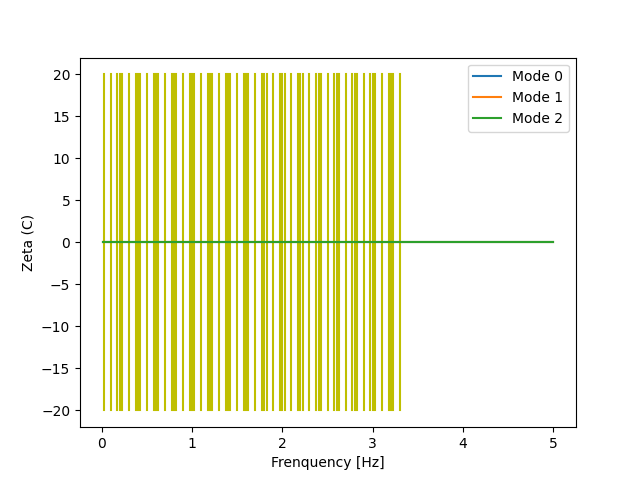
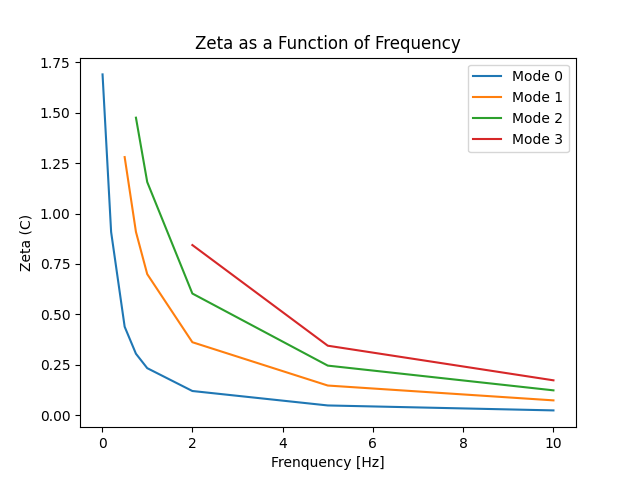
More graphs!!

diff --git a/examples/driver.py b/examples/driver.py
@@ -20,7 +20,7 @@ def main():
     
     
     #Set some frequencies
-    frequency = np.array([0.01, 0.25, 1, 2, 5, 10])
+    frequency = np.array([0.01, 0.2, 0.50, 0.75, 1, 2, 5, 10])
 
     #Zeta Max
     C_max = np.sqrt(H ** 2 * ((beta_1 ** -2) - (beta_2 ** -2)))
@@ -41,7 +41,7 @@ def main():
           
         return dfdx
     
-    modes = [0, 1, 2]
+    modes = [0, 1, 2, 3]
 
     # Creating empty array to store roots or zeta
     zeta = np.zeros([len(frequency), len(modes)])
@@ -91,7 +91,7 @@ def main():
             plt.plot(roots, function(roots), 'go')
 
             # Storing the values of the modes into the zeta, velocity and wavelength arrays
-            if k < 3:
+            if k < len(modes):
                 zeta[i, k] = roots
                 # Use functions given in the lab to find the values for the other arrays
                     # Equation 2
@@ -124,52 +124,88 @@ def main():
         plt.ylabel("Frequency(Zeta) [Hz]")
         plt.title(f"Frequency of {f} [Hz]")
         plt.savefig(f"figures/frequency_plots/Frequency_{f}.png")
-    # Root finding 
-    """
-    # Plot zeta vs frequency for each mode
+    
+    # Stop editing the last figure
+    plt.close("all")
+    
+
+
+# Plot zeta vs frequency for each mode
     plt.plot(frequency, zeta[:,0], label = 'Mode 0')
-    # Finding where indicies for frequency exists - mode 1
-    #mode1 = np.argwhere(zeta[:,1] > 0).flatten() 
-    #plt.plot(frequency[mode1[0]:], zeta[mode1[0]:,1], label = 'Mode 1')
-    plt.plot(frequency[1:], roots[1:,1], label = 'Mode 1')
-    #plt.plot(frequency, zeta[:,1], label = 'Mode 1')
-    # Finding where indicies for frequency exists - mode 2
-    #mode2 = np.argwhere(zeta[:,2] > 0).flatten() 
-    #lt.plot(frequency[mode2[0]:], zeta[mode2[0]:,2], label = 'Mode 2')
-    #plt.plot(frequency, zeta[:,2], label = 'Mode 2')
-    plt.plot(frequency[2:], roots[2,2], label = 'Mode 2')
+
+    # Finding frequencies for where roots exist - mode 1
+    mode1 = np.argwhere(zeta[:,1] > 0).flatten() 
+    plt.plot(frequency[mode1[0]:], zeta[mode1[0]:,1], label = 'Mode 1')
+
+    # Finding frequencies for where roots exist - mode 2
+    mode2 = np.argwhere(zeta[:,2] > 0).flatten() 
+    plt.plot(frequency[mode2[0]:], zeta[mode2[0]:,2], label = 'Mode 2')
+
+    # Finding frequencies for where roots exist - mode 3
+    mode3 = np.argwhere(zeta[:,3] > 0).flatten() 
+    plt.plot(frequency[mode3[0]:], zeta[mode3[0]:,3], label = 'Mode 3')
+
+    plt.title('Zeta as a Function of Frequency')
     plt.legend()
     plt.xlabel('Frenquency [Hz]')
     plt.ylabel('Zeta (C)')
     plt.savefig('figures/Zeta_vs_Frequency.png')
+    
+    # Stop editing this figure
     plt.close('all')
-    """
+    
 
-            
-    """
-    # Finding the initial guess
-    for i in range(len(frequency)):
-        # Finding the mode
-        k = 0  
-        while k < 3 and C_asy > C_max:  
-            C_asy = (0.25 / frequency[i]) * (2 * k + 1)
-            C_initial = C_asy - 1e-4
-            roots[i, k], iterations[i,k], error = root_secant_modified(C_initial, dx, f)
-            k += 1
+# Plot velocity vs frequency for each mode
+    plt.plot(frequency, velocity[:,0], label = 'Mode 0')
 
-    # Plotting the figures, frequencies vs modes
-    plt.figure(figsize = (10,10))
-        # mode 0
-    plt.figure(frequency, roots[:,0], label = 'Mode 0')
-        # mode 1
-    plt.figure(frequency, roots[1:,1], label = 'Mode 1')
-        # mode 2
-    plt.figure(frequency, roots[2:,2], label = 'mode 2')
-    plt.title('Zeta (C) values for a range of frequencies')
+    # Finding frequencies for where roots exist - mode 1
+    mode1 = np.argwhere(velocity[:,1] > 0).flatten() 
+    plt.plot(frequency[mode1[0]:], velocity[mode1[0]:,1], label = 'Mode 1')
+
+    # Finding frequencies for where roots exist - mode 2
+    mode2 = np.argwhere(velocity[:,2] > 0).flatten() 
+    plt.plot(frequency[mode2[0]:], velocity[mode2[0]:,2], label = 'Mode 2')
+
+    # Finding frequencies for where roots exist - mode 3
+    mode3 = np.argwhere(velocity[:,3] > 0).flatten() 
+    plt.plot(frequency[mode3[0]:], velocity[mode3[0]:,3], label = 'Mode 3')
+
+    plt.title('Love Wave Velocity as a Function of Frequency')
+    plt.legend()
     plt.xlabel('Frequency [Hz]')
-    plt.ylabel('Zeta (C)')
-    plt.savefig('figures/zeta_and_frequency.png')
-    """
+    plt.ylabel('Love wave Velocity [m/s]')
+    plt.savefig('figures/Velocity_vs_Frequency.png')
+
+    # Stop editing this figure
+    plt.close("all")
+
+
+# Plot wavelength vs frequency for each mode
+    # Limit the size of the plot since is soooo big
+    plt.ylim(-1, 5000)
+    plt.plot(frequency, wavelength[:,0], label = 'Mode 0', linewidth = '0.75')
+
+    # Finding frequencies for where roots exist - mode 1
+    mode1 = np.argwhere(wavelength[:,1] > 0).flatten() 
+    plt.plot(frequency[mode1[0]:], wavelength[mode1[0]:,1], label = 'Mode 1', linewidth = '0.75')
+
+    # Finding frequencies for where roots exist - mode 2
+    mode2 = np.argwhere(wavelength[:,2] > 0).flatten() 
+    plt.plot(frequency[mode2[0]:], wavelength[mode2[0]:,2], label = 'Mode 2', linewidth = '0.75')
+
+    # Finding frequencies for where roots exist - mode 3
+    mode3 = np.argwhere(wavelength[:,3] > 0).flatten() 
+    plt.plot(frequency[mode3[0]:], wavelength[mode3[0]:,3], label = 'Mode 3', linewidth = '0.75')
+
+    plt.title('Love Wave Wavelength as a Function of Frequency')
+    plt.legend()
+    plt.xlabel('Frequency [Hz]')
+    plt.ylabel('Love Wave Wavelength [m]')
+    plt.savefig('figures/Wavelength_vs_Frequency.png')
+
+    # Stop editing this figure
+    plt.close("all")
+            
 if __name__ == "__main__":
     main()
 
